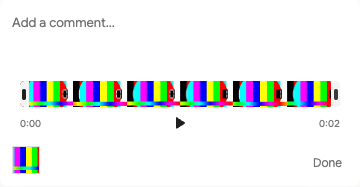
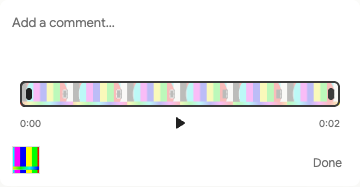
Use one set of range colours for both themes
The selection was drawn from per-theme greys, so the mask and the wash
inverted their emphasis between light and dark and neither theme read
correctly. Switch to a single palette: a dark mask over the unselected
sides, a translucent light box inside it so the sampled frames and the
waveform stay visible, a dark outline and dark grip pills. Drop the side
rail elements, which the box background made redundant, and assert the
fill stays translucent so a full-range selection cannot hide the material.

Changed region(s): [[0.0306, 0.4278, 0.9472, 0.5882]]

diff --git a/tests/annotation-system.spec.ts b/tests/annotation-system.spec.ts
@@ -425,6 +425,7 @@ test('running and history annotations render real text without writes and seek v
 });
 
 test('the annotation range shows bounded neutral grips, an outside mask, a compact height and a restored span', async ({ page, app }, info) => {
+  const shadeOf = (value: string) => value.match(/\d+/g)!.slice(0, 3).reduce((sum, part) => sum + Number(part), 0) / 3;
   await open(page, app);
   await page.getByLabel('Import files into canvas', { exact: true }).setInputFiles(resolve('tests/fixtures/frontend-video.mp4'));
   const video = page.locator('.object-video video'); await expect(video).toHaveJSProperty('videoWidth', 320);
@@ -443,15 +444,23 @@ test('the annotation range shows bounded neutral grips, an outside mask, a compa
 
   // Each grip is a dark slot set into a light side rail of the single selection rectangle.
   const surface = () => page.evaluate(() => {
-    const rail = document.querySelector('.annotation-range-rail') as HTMLElement;
+    const box = document.querySelector('.annotation-range-selection') as HTMLElement;
     const notch = document.querySelector('.annotation-range-handle span') as HTMLElement;
     const rect = notch.getBoundingClientRect();
     const shade = (value: string) => value.match(/\d+/g)!.slice(0, 3).reduce((sum, part) => sum + Number(part), 0) / 3;
-    return { rail: getComputedStyle(rail).backgroundColor, notch: getComputedStyle(notch).backgroundColor, width: rect.width, height: rect.height, railShade: shade(getComputedStyle(rail).backgroundColor), notchShade: shade(getComputedStyle(notch).backgroundColor) };
+    const style = getComputedStyle(box), boxRect = box.getBoundingClientRect();
+    const alpha = Number((style.backgroundColor.match(/[\d.]+\s*\)$/) || ['1)'])[0].replace(')', '')) || 1;
+    // Sample the painted result midway inside the box, above the frames' own content.
+    const canvas = document.createElement('canvas');
+    return { fill: style.backgroundColor, border: style.borderTopColor, borderWidth: style.borderTopWidth, fillAlpha: alpha, insideShade: shade(style.backgroundColor), notch: getComputedStyle(notch).backgroundColor, width: rect.width, height: rect.height, notchShade: shade(getComputedStyle(notch).backgroundColor) };
   });
   const light = await surface();
-  // The rail stays bright and the slot stays dark against it, so the grips never disappear.
-  expect(light.railShade).toBeGreaterThan(220); expect(light.notchShade).toBeLessThan(120);
+  // The box stays light inside with a dark outline and dark grips, so the handles never disappear.
+  expect(light.borderWidth).toBe('2px');
+  // The fill must stay translucent so the sampled frames and waveform remain visible inside the box.
+  expect(light.fillAlpha).toBeGreaterThan(0.6); expect(light.fillAlpha).toBeLessThan(0.85);
+  expect(light.insideShade).toBeGreaterThan(150);
+  expect(shadeOf(light.border)).toBeLessThan(120); expect(light.notchShade).toBeLessThan(120);
   expect(light.width).toBeLessThanOrEqual(8); expect(light.height).toBeGreaterThanOrEqual(9); expect(light.height).toBeGreaterThan(light.width);
   // The frame holds two grips and inset material inside one rectangle.
   expect(await page.locator('.annotation-range-selection > .annotation-range-handle').count()).toBe(2);
@@ -465,7 +474,9 @@ test('the annotation range shows bounded neutral grips, an outside mask, a compa
   const lightShot = info.outputPath('range-annotation-light.png'); await page.locator('.annotation-full').screenshot({ path: lightShot }); console.log(`MEDIA_RANGE_SHOT ${lightShot}`);
   await page.getByRole('button', { name: 'Switch to dark theme' }).click();
   const dark = await surface();
-  expect(dark.railShade).toBeGreaterThan(220); expect(dark.notchShade).toBeLessThan(120);
+  // The same values hold in the dark theme instead of inverting.
+  expect(dark.insideShade).toBeGreaterThan(150); expect(shadeOf(dark.border)).toBeLessThan(120); expect(dark.notchShade).toBeLessThan(120);
+  expect(dark.fill).toBe(light.fill); expect(dark.notch).toBe(light.notch);
   const darkShot = info.outputPath('range-annotation-dark.png'); await page.locator('.annotation-full').screenshot({ path: darkShot }); console.log(`MEDIA_RANGE_SHOT ${darkShot}`);
   await page.getByRole('button', { name: 'Switch to light theme' }).click();
 
@@ -482,7 +493,7 @@ test('the annotation range shows bounded neutral grips, an outside mask, a compa
       colour: getComputedStyle(document.querySelector('.annotation-range-outside') as HTMLElement).backgroundColor,
     };
   });
-  expect(mask.colour).toBe('rgba(255, 255, 255, 0.66)');
+  expect(mask.colour).toBe('rgba(0, 0, 0, 0.72)');
   expect(mask.widths[0]).toBe(mask.selection.left - mask.track.left);
   expect(mask.widths[1]).toBe(mask.track.width - (mask.selection.left - mask.track.left) - mask.selection.width);
   // Each grip hangs inside its own side of the rectangle and never outside it.

diff --git a/src/web/styles.css b/src/web/styles.css
@@ -262,8 +262,7 @@ details[open] summary svg { rotate: 180deg; }
 .comment-video-meta input { width: 62px; padding: 3px; border: 0; border-radius: 4px; background: var(--soft); font-size: 10px; outline: 0; box-shadow: none; }
 .annotation-full:has(.annotation-time-range) { --annotation-height: 186px; }
 .annotation-full:has(.annotation-time-range) .annotation-context { width: 100%; }
-.annotation-time-range { --range-rail: #f4f4f2; --range-notch: #3b3b3b; --range-veil: rgba(255,255,255,.66); --range-notch-hover: #1f1f1f; width: 100%; min-width: 0; padding: 2px 8px 0; color: var(--ink); }
-:root[data-theme='dark'] .annotation-time-range { --range-rail: #f2f2f0; --range-notch: #343434; --range-veil: rgba(255,255,255,.5); --range-notch-hover: #171717; }
+.annotation-time-range { --range-rail: #f7f7f5; --range-notch: #3b3b3b; --range-notch-hover: #1f1f1f; width: 100%; min-width: 0; padding: 2px 8px 0; color: var(--ink); }
 .annotation-range-track { position: relative; width: 100%; height: 26px; overflow: hidden; border-radius: 5px; background: var(--soft); cursor: crosshair; touch-action: none; user-select: none; }
 .annotation-range-frames,.annotation-range-wave { position: absolute; inset: 0; display: flex; overflow: hidden; border-radius: inherit; pointer-events: none; }
 .annotation-range-frames { background: var(--soft); }
@@ -271,16 +270,14 @@ details[open] summary svg { rotate: 180deg; }
 .annotation-range-wave { align-items: center; justify-content: space-around; padding: 4px 2px; gap: 1px; }
 .annotation-range-wave i { display: block; flex: 1; min-width: 1px; border-radius: 1px; background: var(--muted); }
 .annotation-range-wave span { display: block; width: 100%; height: 2px; background: var(--muted); }
-.annotation-range-outside { position: absolute; top: 0; bottom: 0; left: 0; background: var(--range-veil); pointer-events: none; }
+.annotation-range-outside { position: absolute; top: 0; bottom: 0; left: 0; background: rgba(0,0,0,.72); pointer-events: none; }
 .annotation-range-outside.right { width: auto; right: 0; }
-.annotation-range-selection { position: absolute; top: 0; bottom: 0; box-sizing: border-box; border: 0; border-radius: 5px; pointer-events: none; }
-.annotation-range-rail { position: absolute; top: 0; bottom: 0; width: 9px; background: var(--range-rail); }
-.annotation-range-rail.start { left: 0; border-radius: 4px 0 0 4px; }
-.annotation-range-rail.end { right: 0; border-radius: 0 4px 4px 0; }
+.annotation-range-selection { position: absolute; top: 0; bottom: 0; box-sizing: border-box; border: 2px solid var(--range-notch); border-radius: 6px; background: color-mix(in srgb, var(--range-rail) 76%, transparent); pointer-events: none; }
+.annotation-range-rail { position: absolute; top: 0; bottom: 0; width: 9px; }
 .annotation-range-handle { position: absolute; z-index: 2; top: 50%; transform: translateY(-50%); width: 12px; height: 22px; padding: 0; border: 0; display: grid; place-items: center; background: transparent; cursor: ew-resize; touch-action: none; pointer-events: auto; }
-.annotation-range-handle.start { left: 0; justify-items: start; padding-left: 2px; }
-.annotation-range-handle.end { left: auto; right: 0; justify-items: end; padding-right: 2px; }
-.annotation-range-handle span { position: relative; width: 4px; height: 11px; border-radius: 2px; background: var(--range-notch); box-shadow: 0 0 0 1px #ffffff7a; }
+.annotation-range-handle.start { left: 0; justify-items: start; padding-left: 4px; }
+.annotation-range-handle.end { left: auto; right: 0; justify-items: end; padding-right: 4px; }
+.annotation-range-handle span { position: relative; width: 6px; height: 12px; border-radius: 3px; background: var(--range-notch); }
 .annotation-range-handle:hover span,.annotation-range-handle:focus-visible span { background: var(--range-notch-hover); }
 .annotation-range-handle:focus-visible { outline: 2px solid var(--annotation); outline-offset: 1px; border-radius: 3px; }
 .annotation-range-times { display: grid; grid-template-columns: 1fr 26px 1fr; align-items: center; gap: 8px; padding-top: 3px; font-size: 10px; font-variant-numeric: tabular-nums; color: var(--muted); }

diff --git a/src/web/AnnotationTimeRange.tsx b/src/web/AnnotationTimeRange.tsx
@@ -141,7 +141,7 @@ export function AnnotationTimeRange({ kind, src, media, start, end, fresh, disab
     <div ref={track} className={`annotation-range-track annotation-range-${kind}`} onPointerDown={down} onPointerMove={motion} onPointerUp={up} onPointerCancel={() => { gesture.current = undefined; setPreview(undefined); }} onLostPointerCapture={() => { gesture.current = undefined; setPreview(undefined); }}>
       {kind === 'video' ? <div className="annotation-range-frames">{Array.from({ length: 6 }, (_, index) => <div key={index} className="annotation-range-frame" style={frames[index] ? { backgroundImage: `url(${frames[index]})` } : undefined}/>)}</div> : <div className="annotation-range-wave">{wave ? Array.from({ length: 84 }, (_, index) => { const from = Math.floor(index * wave.values.length / 84), to = Math.max(from + 1, Math.floor((index + 1) * wave.values.length / 84)); let peak = 0; for (let i = from; i < to; i++) peak = Math.max(peak, wave.values[i]); return <i key={index} style={{ height: `${Math.max(8, peak / wave.maximum * 86)}%` }}/>; }) : <span/>}</div>}
       <div className="annotation-range-outside" style={{ width: position(selected.start) }}/><div className="annotation-range-outside right" style={{ left: position(selected.end) }}/>
-      <div className="annotation-range-selection" style={{ left: position(selected.start), right: available ? `${(duration - selected.end) / duration * 100}%` : '100%' }}><i className="annotation-range-rail start"/><i className="annotation-range-rail end"/>{(['start', 'end'] as const).map(edge => <button key={edge} type="button" role="slider" aria-orientation="horizontal" data-range-handle={edge} className={`annotation-range-handle ${edge}`} aria-label={`${edge === 'start' ? 'Start' : 'End'} point`} aria-valuemin={0} aria-valuemax={duration} aria-valuenow={selected[edge]} aria-valuetext={exactClock(selected[edge])} disabled={!available || disabled} onKeyDown={event => key(event, edge)}><span/></button>)}</div>
+      <div className="annotation-range-selection" style={{ left: position(selected.start), right: available ? `${(duration - selected.end) / duration * 100}%` : '100%' }}>{(['start', 'end'] as const).map(edge => <button key={edge} type="button" role="slider" aria-orientation="horizontal" data-range-handle={edge} className={`annotation-range-handle ${edge}`} aria-label={`${edge === 'start' ? 'Start' : 'End'} point`} aria-valuemin={0} aria-valuemax={duration} aria-valuenow={selected[edge]} aria-valuetext={exactClock(selected[edge])} disabled={!available || disabled} onKeyDown={event => key(event, edge)}><span/></button>)}</div>
     </div>
     <div className="annotation-range-times"><span>{available ? clock(selected.start) : 'Time unavailable'}</span><button type="button" className="annotation-range-preview" aria-label={playing ? 'Pause range preview' : 'Play range preview'} title={playing ? 'Pause preview' : 'Preview range'} disabled={!available || disabled || selected.start >= duration} onClick={() => void togglePreview()}>{playing ? <Pause size={14} fill="currentColor"/> : <Play size={14} fill="currentColor"/>}</button><span>{available ? clock(selected.end) : ''}</span></div>
   </div>;

diff --git a/docs/MEDIA_TIME_RANGE_DESIGN.md b/docs/MEDIA_TIME_RANGE_DESIGN.md
@@ -9,7 +9,7 @@
 ## 界面与操作
 
 - 编辑单个视频或音频的批注时，在评论区内显示一条紧凑时间轴。视频轨道展示从原文件取样的真实帧；音频轨道复用完整音频的振幅波形。预览尚未就绪时使用平静的轨道，选择操作仍可用。界面沿用画板现有灰度、圆角与字体，选中框和左右端点是唯一强调元素。
-- 选中范围是**一个矩形**：外框、左右两条 9px 宽的侧轨与内嵌的深色窄槽握柄（4×11px，命中区 12×22px）同属一个元素，握柄是矩形的子节点，而不是浮在轨道上的两个独立小柄。矩形内部保持透明，选中的素材画面或波形照常透出；选区以外覆盖深色遮罩。取色走 `--range-rail`（侧轨与外框）、`--range-notch`（窄槽）、`--range-ring`（外描边）三个变量，浅色主题为浅轨 + 深槽 + 深描边，深色主题重新取值为亮轨 + 深槽 + 深描边，因此同一套结构在两种主题下都成立；批注蓝只出现在键盘焦点环上。握柄悬停只改变窄槽颜色，不改变尺寸，避免轮廓跳变。左右端点分别设置 start 和 end，拖动时显示对应时码。点按轨道设置单个时点；在轨道空白处拖动可框选区间。两柄重合表示时点，展开后表示区间。没有额外的 cut 控件。轨道高 26px、整块时间控件 57px，批注卡片随之为 186px，高于纯文字卡片但仍保持紧凑。
+- 选中范围是**一个矩形**：外框为 2px 深色圆角描边，内部是一层半透明的浅色底（`color-mix(in srgb, #f7f7f5 76%, transparent)`），因此选中的画面与波形仍然可见、只是被提亮；左右两个深色圆角握柄（6×12px，命中区 12×22px）嵌在矩形两侧，握柄与矩形同属一个元素，而不是浮在轨道上的两个独立小柄。选区以外覆盖 72% 的深色遮罩，未选中的素材压暗到约 `#2f2f2f`。**两种主题使用同一套取值**：深色遮罩压在浅色盒子上，因此不存在按主题反相的问题。握柄悬停只改变颜色，不改变尺寸，避免轮廓跳变。左右端点分别设置 start 和 end，拖动时显示对应时码。点按轨道设置单个时点；在轨道空白处拖动可框选区间。两柄重合表示时点，展开后表示区间。没有额外的 cut 控件。轨道高 26px、整块时间控件 57px，批注卡片随之为 186px，高于纯文字卡片但仍保持紧凑。
 - 每次新建视频或音频批注均从 `0…duration` 的全幅选择开始，不继承媒体此前的播放头或上一次批注的选区。拖动端点或框选后保存明确时间；重新打开已有草稿批注时按其已存起止时间恢复，不覆盖用户已提交的选择。音频全幅沿用整段语义（`timeStart`、`timeEnd` 均为空）；视频已有时长时全幅保存 `0…duration`，时长尚未就绪时先用双空表示整段，时长可用后由界面补齐全幅——该补齐只作用于本次新建的视频批注，重新打开的历史批注不会被改成整段。端点始终在时长内，起点不晚于终点。
 - 两个端点可通过键盘聚焦及方向键移动，并向读屏器报告端点与时码；触屏有可命中的手柄。媒体时长尚未就绪时保留原批注值，时长可用后启用选择。只读任务快照继续显示时码与显式 Jump 操作。
 - 时间轴旁提供节选播放/暂停按钮。按下后从选区起点播放原媒体，到选区终点自动暂停；单时点选择播放起点后的短片段，受媒体尾部限制。播放期间可手动暂停；改变选区或关闭批注会结束本次节选试听。按钮状态与失败反馈清楚，键盘和触屏可操作。调整批注范围本身不改变画板中媒体的播放位置。
